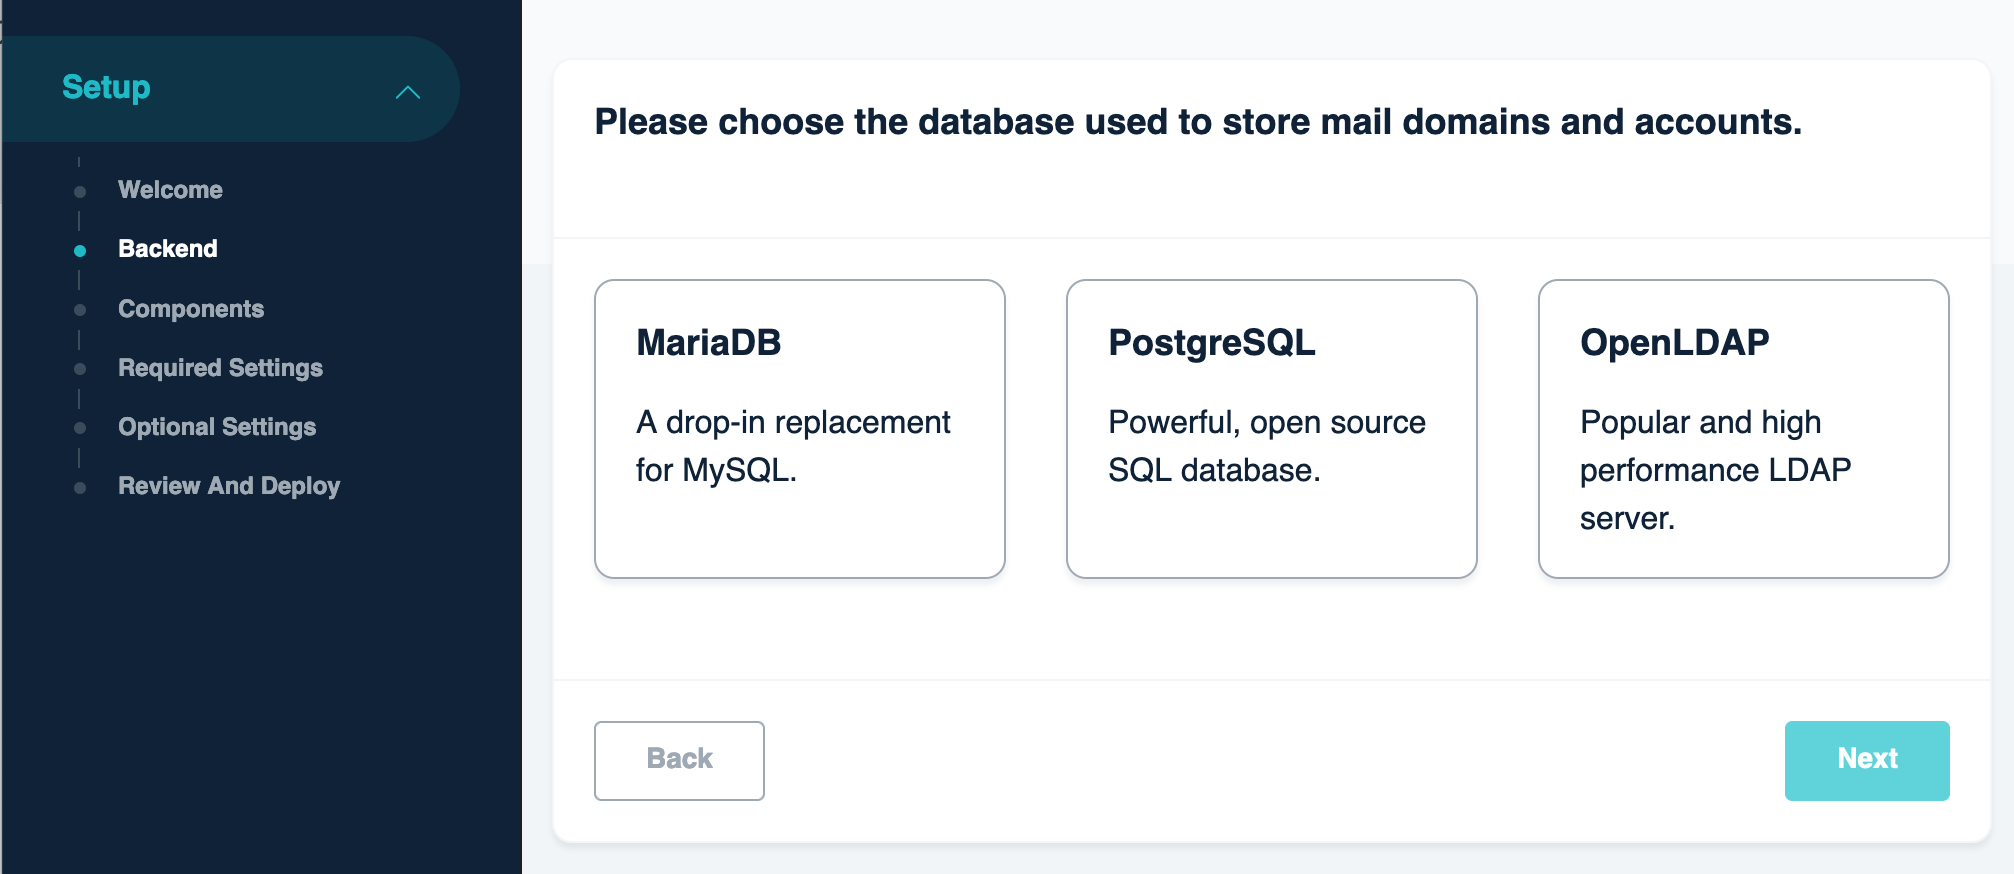
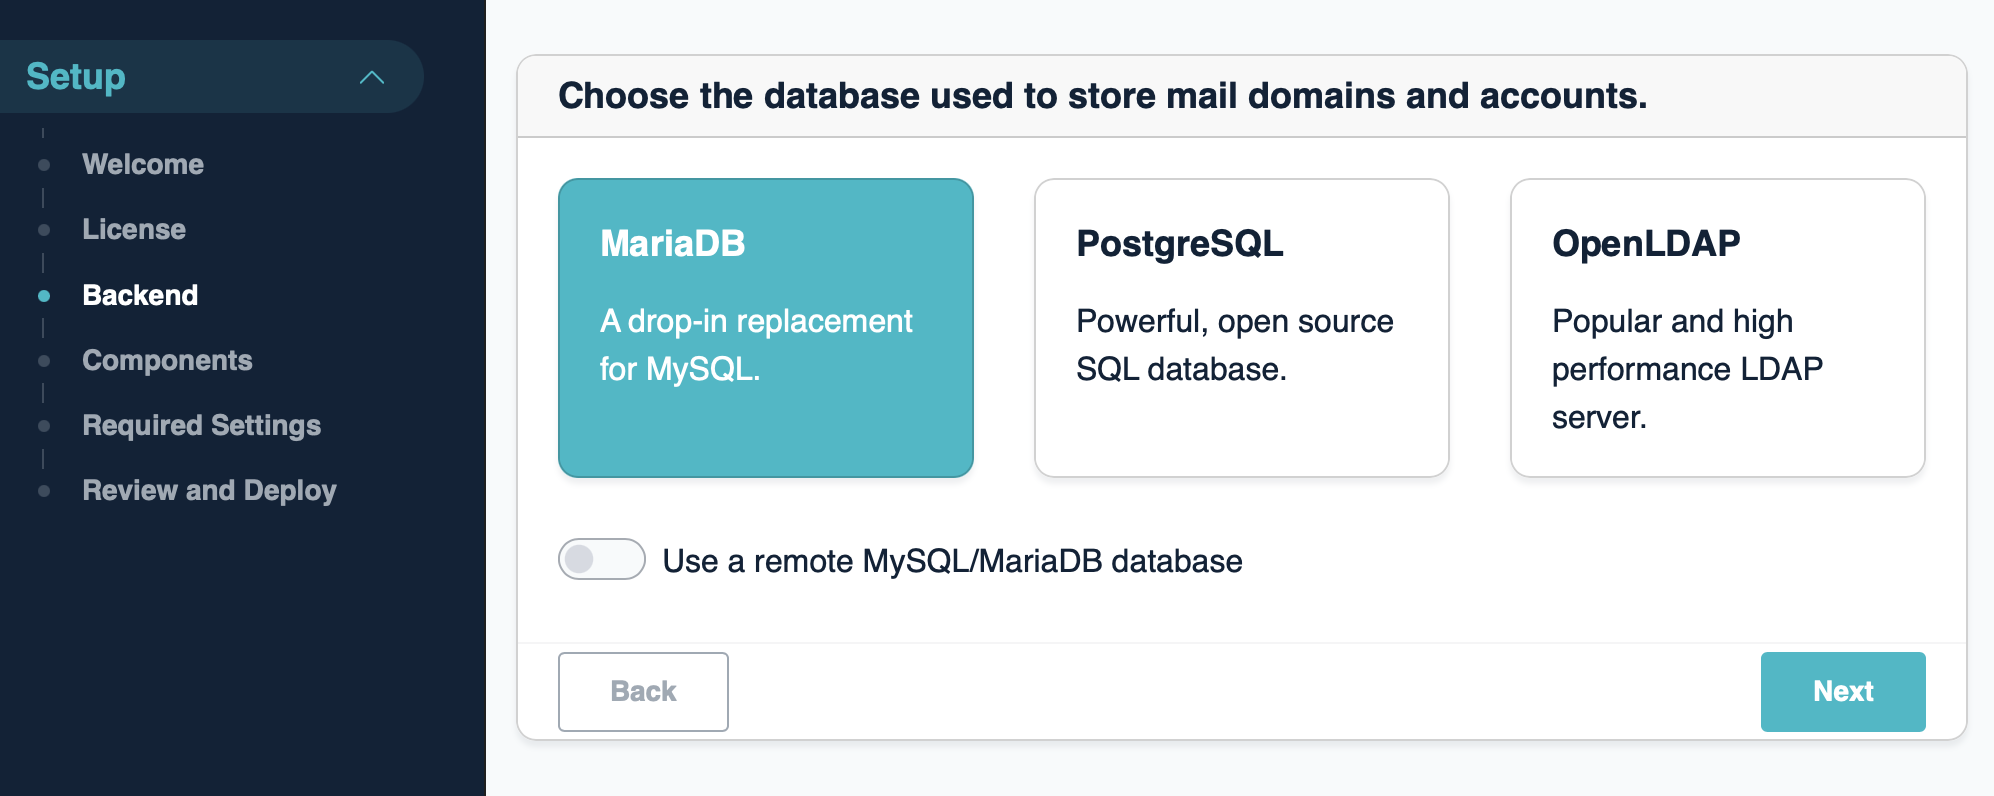
Mention using remote mysql/mariadb as iredmail backend db.

diff --git a/html/install.ee.html b/html/install.ee.html
@@ -221,6 +221,16 @@ pkg_add bash
 <p>A backend is a SQL or LDAP database used to store mail domains and
 accounts. There're not big differences between them, so we suggest you choose
 the one you're familiar with for easier maintenance.</p>
+<p>Since EE v1.6.0, using a remote MySQL or MariaDB server as backend is supported
+on below distribution releases (secure SSL connection requires Dovecot 2.3.21 or 2.4):</p>
+<ul>
+<li>CentOS Stream 10 and later</li>
+<li>Rocky 10 and later</li>
+<li>AlmaLinux 10 and later</li>
+<li>Debian 13 and later</li>
+<li>Ubuntu 24.04 and later</li>
+<li>OpenBSD 7.7 and later</li>
+</ul>
 <p><img alt="" src="./images/ee/setup-backend.png" width="700px" /></p>
 <h3 id="choose-the-components-you-want-to-deploy">Choose the components you want to deploy</h3>
 <p>A component is a software (or software group, service) which implements some

diff --git a/en_US/installation/0-install.ee.md b/en_US/installation/0-install.ee.md
@@ -164,6 +164,16 @@ A backend is a SQL or LDAP database used to store mail domains and
 accounts. There're not big differences between them, so we suggest you choose
 the one you're familiar with for easier maintenance.
 
+Since EE v1.6.0, using a remote MySQL or MariaDB server as backend is supported
+on below distribution releases (secure SSL connection requires Dovecot 2.3.21 or 2.4):
+
+- CentOS Stream 10 and later
+- Rocky 10 and later
+- AlmaLinux 10 and later
+- Debian 13 and later
+- Ubuntu 24.04 and later
+- OpenBSD 7.7 and later
+
 ![](./images/ee/setup-backend.png){: width="700px" }
 
 ### Choose the components you want to deploy
